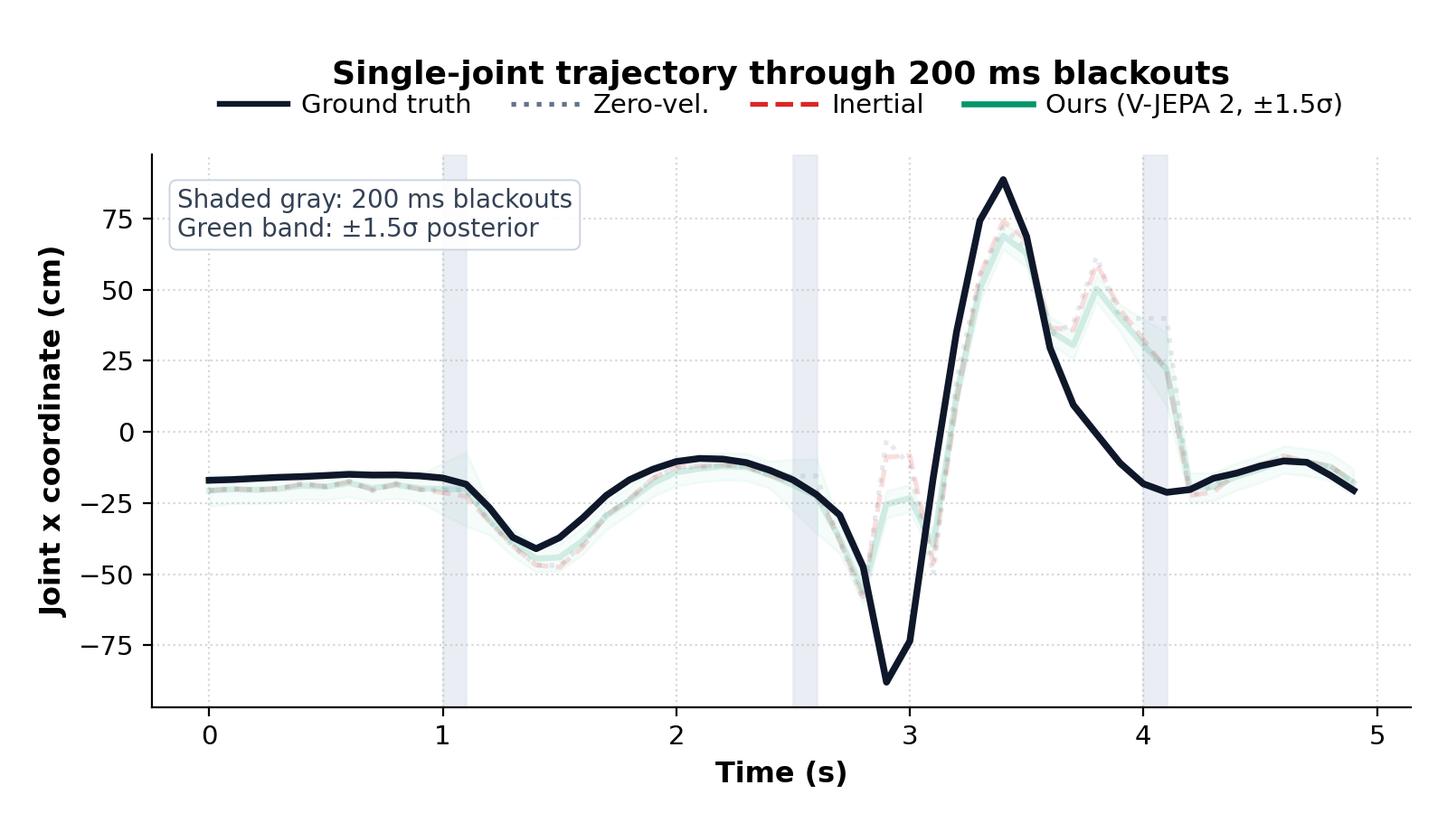
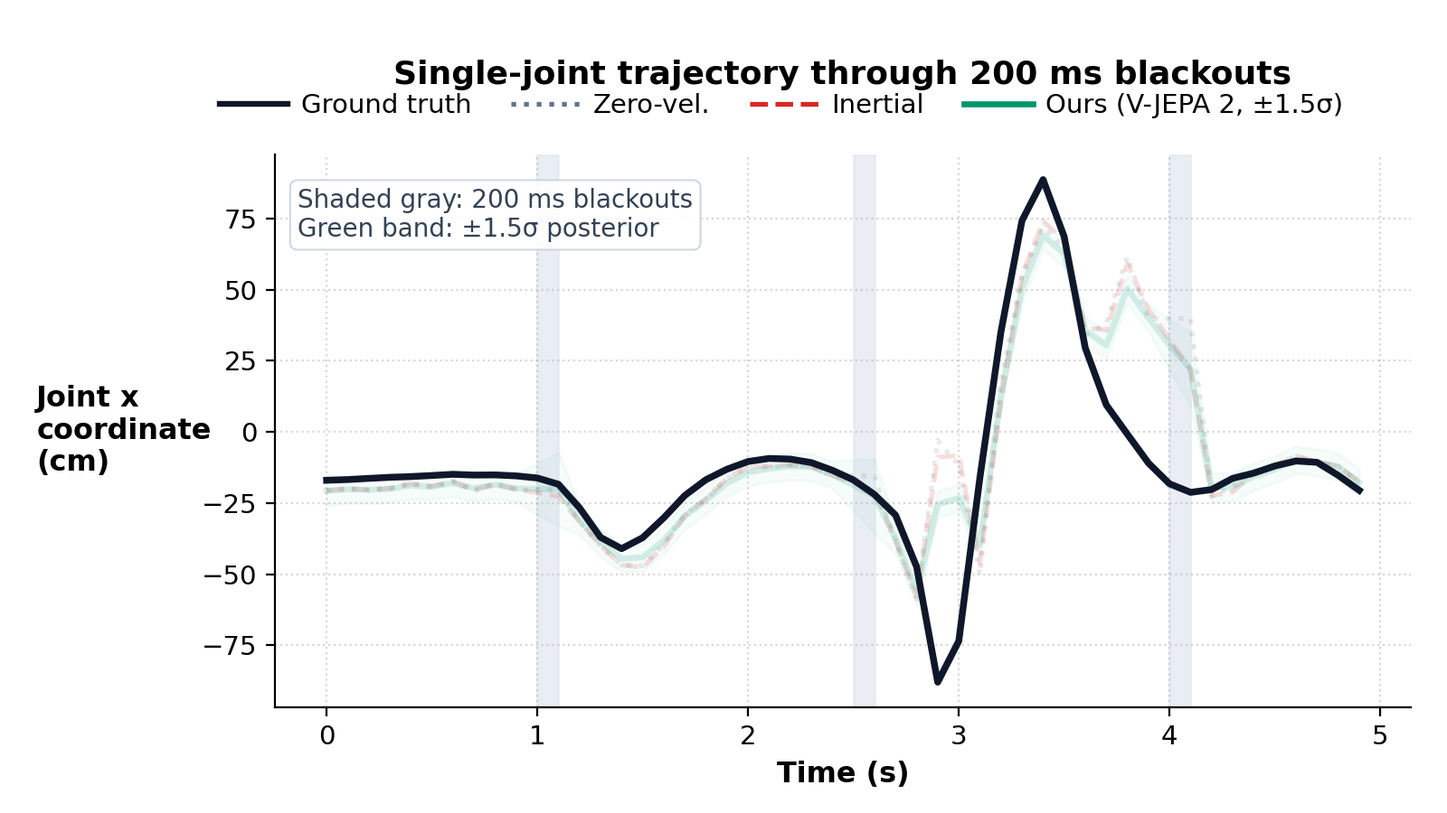
Side y-labels, spacing, alignment, larger fonts

diff --git a/index.html b/index.html
@@ -7,35 +7,35 @@
 <style>
   :root { --fg:#1d2330; --muted:#6a7385; --line:#e3e7ee; --bg:#fafbfd; --accent:#2f6fde; }
   * { box-sizing: border-box; }
-  body { margin:0; font: 15px/1.45 system-ui, -apple-system, "Segoe UI", Roboto, Helvetica, Arial, sans-serif; color:var(--fg); background:#fff; }
+  body { margin:0; font: 16px/1.45 system-ui, -apple-system, "Segoe UI", Roboto, Helvetica, Arial, sans-serif; color:var(--fg); background:#fff; }
   header { max-width:1280px; margin:0 auto; padding:40px 20px 12px; }
   header h1 { font-size:28px; font-weight:650; margin:0; line-height:1.35; text-align:center; }
-  header .anon { text-align:center; color:var(--muted); font-size:16px; margin:14px 0 18px; }
+  header .anon { text-align:center; color:var(--muted); font-size:17px; margin:14px 0 18px; }
   header .paperlink { text-align:center; margin:0 0 30px; }
-  header .paperlink a { display:inline-block; padding:11px 22px; border:1px solid var(--line); border-radius:999px; background:#fff; color:var(--accent); font-size:14px; font-weight:600; text-decoration:none; }
+  header .paperlink a { display:inline-block; padding:11px 22px; border:1px solid var(--line); border-radius:999px; background:#fff; color:var(--accent); font-size:15px; font-weight:600; text-decoration:none; }
   header .paperlink a:hover { background:#eef4ff; }
   header .intro { text-align:left; line-height:1.6; max-width:980px; margin:0 auto; }
-  .credits ul { margin:6px 0 0 18px; padding:0; font-size:14px; line-height:1.6; }
+  .credits ul { margin:6px 0 0 18px; padding:0; font-size:15px; line-height:1.6; }
   .contrib { max-width:1280px; margin:28px auto 40px; padding:0 20px; }
-  .contrib h2 { font-size:19px; font-weight:650; margin:0 0 4px; }
-  .contrib > p { color:var(--muted); font-size:14px; margin:0 0 14px; }
+  .contrib h2 { font-size:20.5px; font-weight:650; margin:0 0 4px; }
+  .contrib > p { color:var(--muted); font-size:15px; margin:0 0 14px; }
   .card { background:#fff; border:1px solid var(--line); border-radius:12px; padding:16px 18px; margin:0 0 16px; }
-  .card h3 { font-size:16px; margin:0 0 6px; }
-  .card h3 .num { display:inline-block; width:24px; height:24px; line-height:24px; text-align:center; border-radius:50%; background:var(--accent); color:#fff; font-size:13px; margin-right:8px; }
-  .card p { margin:0 0 10px; font-size:14px; line-height:1.5; }
+  .card h3 { font-size:17px; margin:0 0 6px; }
+  .card h3 .num { display:inline-block; width:24px; height:24px; line-height:24px; text-align:center; border-radius:50%; background:var(--accent); color:#fff; font-size:14px; margin-right:8px; }
+  .card p { margin:0 0 10px; font-size:15px; line-height:1.5; }
   .card figure { margin:0; text-align:center; }
   .card img { max-width:100%; height:auto; border-radius:6px; }
   .card img.narrow { max-width:620px; width:100%; }
-  .card figcaption { font-size:12.5px; color:var(--muted); margin-top:6px; text-align:left; line-height:1.45; }
-  header p { margin:4px 0 0; color:var(--muted); font-size:14px; }
+  .card figcaption { font-size:13.5px; color:var(--muted); margin-top:6px; text-align:left; line-height:1.45; }
+  header p { margin:4px 0 0; color:var(--muted); font-size:15px; }
   main { max-width:1280px; margin:0 auto; padding:6px 20px 30px; }
   .nav { display:flex; align-items:center; gap:8px; margin:26px 0 16px; }
-  .navbtn { flex:0 0 auto; width:36px; height:36px; border-radius:50%; border:1px solid var(--line); background:#fff; font-size:18px; cursor:pointer; color:var(--fg); }
+  .navbtn { flex:0 0 auto; width:36px; height:36px; border-radius:50%; border:1px solid var(--line); background:#fff; font-size:19.5px; cursor:pointer; color:var(--fg); }
   .navbtn:hover { background:var(--bg); }
   .tabs { display:flex; gap:8px; overflow-x:auto; scrollbar-width:thin; padding:2px; flex:1 1 auto; justify-content:safe center; }
-  #key3d { position:absolute; right:10px; bottom:8px; font-size:11.5px; line-height:1.45; color:#374151; background:rgba(255,255,255,.88); border:1px solid var(--line); border-radius:6px; padding:4px 8px; pointer-events:none; text-align:left; }
+  #key3d { position:absolute; right:10px; bottom:8px; font-size:12.5px; line-height:1.45; color:#374151; background:rgba(255,255,255,.88); border:1px solid var(--line); border-radius:6px; padding:4px 8px; pointer-events:none; text-align:left; }
   #key3d svg { vertical-align:middle; margin-right:4px; }
-  .tab { flex:0 0 auto; display:flex; align-items:center; gap:8px; padding:4px 10px 4px 4px; border:1px solid var(--line); border-radius:10px; background:#fff; cursor:pointer; font-size:13px; color:var(--fg); white-space:nowrap; }
+  .tab { flex:0 0 auto; display:flex; align-items:center; gap:8px; padding:4px 10px 4px 4px; border:1px solid var(--line); border-radius:10px; background:#fff; cursor:pointer; font-size:14px; color:var(--fg); white-space:nowrap; }
   .tab img { width:40px; height:40px; object-fit:cover; border-radius:7px; }
   .tab.active { border-color:var(--accent); box-shadow:0 0 0 2px rgba(47,111,222,.15); }
   .stage { display:grid; grid-template-columns:1fr 1fr; gap:10px; }
@@ -45,28 +45,28 @@
   .panel video { object-fit:contain; }
   .panel canvas { cursor:grab; touch-action:none; }
   .panel canvas:active { cursor:grabbing; }
-  .plabel { position:absolute; left:10px; top:8px; font-size:12px; color:#fff; background:rgba(0,0,0,.45); padding:2px 8px; border-radius:6px; pointer-events:none; }
+  .plabel { position:absolute; left:10px; top:8px; font-size:13px; color:#fff; background:rgba(0,0,0,.45); padding:2px 8px; border-radius:6px; pointer-events:none; }
   .viewer .plabel { color:var(--muted); background:rgba(255,255,255,.8); }
-  #resetView { position:absolute; right:10px; top:8px; display:none; font-size:12px; padding:4px 10px; border-radius:6px; border:1px solid var(--line); background:#fff; cursor:pointer; }
-  #status3d { position:absolute; left:10px; bottom:8px; font-size:12px; color:var(--muted); pointer-events:none; }
+  #resetView { position:absolute; right:10px; top:8px; display:none; font-size:13px; padding:4px 10px; border-radius:6px; border:1px solid var(--line); background:#fff; cursor:pointer; }
+  #status3d { position:absolute; left:10px; bottom:8px; font-size:13px; color:var(--muted); pointer-events:none; }
   #status3d.black { color:#c4441a; font-weight:600; }
-  .controls { display:flex; flex-wrap:wrap; align-items:center; justify-content:center; gap:6px 22px; margin:12px 2px 6px; font-size:13px; color:var(--fg); }
+  .controls { display:flex; flex-wrap:wrap; align-items:center; justify-content:center; gap:6px 22px; margin:12px 2px 6px; font-size:14px; color:var(--fg); }
   .playov { position:absolute; left:50%; top:50%; transform:translate(-50%,-50%); width:68px; height:68px; border:none; border-radius:50%; background:rgba(0,0,0,.55); cursor:pointer; display:flex; align-items:center; justify-content:center; opacity:0; transition:opacity .25s; padding:0; }
   .panel:hover .playov { opacity:1; }
   .playov.show { opacity:1; transition:none; }
   .playov:hover { background:rgba(0,0,0,.72); }
   #rgb { cursor:pointer; }
   .controls label { display:flex; align-items:center; gap:6px; cursor:pointer; user-select:none; }
-  .controls select, .controls button { font-size:13px; padding:3px 8px; border:1px solid var(--line); border-radius:6px; background:#fff; cursor:pointer; }
+  .controls select, .controls button { font-size:14px; padding:3px 8px; border:1px solid var(--line); border-radius:6px; background:#fff; cursor:pointer; }
   .spacer { flex:1 1 auto; }
   .linkish { background:none !important; border:none !important; color:var(--accent); padding:0 !important; }
   #panelsWrap { display:none; margin-top:8px; }
   #panelsWrap video { width:100%; display:block; border:1px solid var(--line); border-radius:10px; background:#fff; }
-  .caption { margin-top:10px; padding:10px 14px; background:var(--bg); border:1px solid var(--line); border-radius:10px; font-size:14px; }
+  .caption { margin-top:10px; padding:10px 14px; background:var(--bg); border:1px solid var(--line); border-radius:10px; font-size:15px; }
   .caption .title { font-weight:600; }
   .caption .metrics { margin-top:4px; color:var(--fg); }
-  .caption .model { color:var(--muted); font-size:13px; }
-  details { margin:10px auto 0; font-size:13px; color:var(--fg); }
+  .caption .model { color:var(--muted); font-size:14px; }
+  details { margin:10px auto 0; font-size:14px; color:var(--fg); }
   #caption { margin-left:auto; margin-right:auto; }
   details summary { cursor:pointer; color:var(--muted); }
   details ul { margin:6px 0 0 18px; padding:0; }
@@ -124,7 +124,7 @@
     <p>Image self-distillation (DINOv3) and flow-adapted LILA give the best in-domain static pose (Human3.6M MPJPE 5.12 and 5.07&nbsp;cm vs. 5.50&ndash;5.56&nbsp;cm for V-JEPA&nbsp;2 and RVM; <a href="paper.pdf#page=5" target="_blank" rel="noopener">paper Tab.&nbsp;1</a>). Predictive and recurrent video self-supervised encoders carry the most transferable dynamics: they lead zero-shot EMDB1 pose (RVM 7.85, V-JEPA&nbsp;2 7.99&nbsp;cm) and 3DPW forecasting and in-betweening (<a href="paper.pdf#page=5" target="_blank" rel="noopener">Tab.&nbsp;1</a>), +100&nbsp;ms velocity (24.5 and 26.6&nbsp;cm/s; <a href="paper.pdf#page=6" target="_blank" rel="noopener">Tab.&nbsp;2</a>), and quadruped forecasting (<a href="paper.pdf#page=7" target="_blank" rel="noopener">Tab.&nbsp;7</a>). Vision&ndash;language and action-supervised encoders retain little motion: their speed slope is at most 0.26 vs. 0.70 for RVM (figure below; <a href="paper.pdf#page=1" target="_blank" rel="noopener">paper Fig.&nbsp;2</a>).</p>
     <figure>
       <div class="ix-legend" id="ix1leg"></div>
-      <div class="ix-two ix-f1"><div><svg id="ix1a" viewBox="0 0 520 400" role="img" aria-label="Predicted versus true speed per encoder"></svg></div><div><svg id="ix1b" viewBox="0 0 440 400" role="img" aria-label="Speed slope per encoder"></svg></div></div>
+      <div class="ix-two ix-f1"><div><svg id="ix1a" viewBox="0 0 560 400" role="img" aria-label="Predicted versus true speed per encoder"></svg></div><div><svg id="ix1b" viewBox="0 0 440 400" role="img" aria-label="Speed slope per encoder"></svg></div></div>
       <noscript><img class="narrow" src="figs/fig_speed.png" alt="Predicted versus true joint speed across frozen encoders"></noscript>
       <figcaption><b>Paper Fig. 2.</b> How much motion do frozen encoders expose? (a) Mean predicted vs. true speed over 23 joints on 1,598 zero-shot EMDB1 clips (TSA head, 0.4 s context at 10 FPS, predicting 100 ms ahead). (b) Underestimation factor (least-squares slope; 1.0 = no shortfall) for four example joints (dots) and all 23 joints (bars).</figcaption></figure>
   </div>
@@ -133,7 +133,7 @@
     <p>Linear probes fail: the best linear or spatial-linear probe trails the attention heads by 5.3&ndash;8.1&nbsp;cm on position and barely improves on predicting zero velocity (<a href="paper.pdf#page=6" target="_blank" rel="noopener">paper Tab.&nbsp;2</a>, plotted below). Per-joint cross-attention (Perceiver-style) accounts for most of the gain, lowering mean position error from 16.6 to 10.2&nbsp;cm. Our Temporal Signed Attention (TSA) head differences features across frames instead of averaging them (<a href="paper.pdf#page=4" target="_blank" rel="noopener">paper Fig.&nbsp;4</a>) and gives the lowest mean position and velocity error (10.0&nbsp;cm, 30.1&nbsp;cm/s; <a href="paper.pdf#page=6" target="_blank" rel="noopener">Tab.&nbsp;2</a>); with static crops it has the lowest position error on every encoder (<a href="paper.pdf#page=15" target="_blank" rel="noopener">supp. Tab.&nbsp;S4</a>).</p>
     <figure>
       <div class="ix-legend" id="ix2leg"></div>
-      <div class="ix-two ix-f2"><div><svg id="ix2a" viewBox="0 0 560 330" role="img" aria-label="MPJPE by readout head"></svg></div><div><svg id="ix2b" viewBox="0 0 560 330" role="img" aria-label="Velocity error by readout head"></svg></div></div>
+      <div class="ix-two ix-f2"><div><svg id="ix2a" viewBox="0 0 596 330" role="img" aria-label="MPJPE by readout head"></svg></div><div><svg id="ix2b" viewBox="0 0 596 330" role="img" aria-label="Velocity error by readout head"></svg></div></div>
       <noscript><img src="figs/fig_heads.png" alt="Readout heads on zero-shot EMDB1"></noscript>
       <figcaption><b>Paper Tab. 2, plotted.</b> Readout heads on zero-shot EMDB1 for seven frozen encoders: best linear or spatial-linear probe, Perceiver-style cross-attention, and TSA. Left: MPJPE (cm, lower is better). Right: +100 ms velocity error (cm/s); dashed line: zero-velocity baseline. Mean over encoders: 16.6 / 10.2 / 10.0 cm and 39.6 / 30.5 / 30.1 cm/s.</figcaption></figure>
   </div>
@@ -150,7 +150,7 @@
         <span class="ix-li" data-key3="inertial" style="cursor:pointer"><svg viewBox="0 0 30 10"><line x1="1" x2="29" y1="5" y2="5" stroke="#DC2626" stroke-width="2.4" stroke-dasharray="6 3"/></svg>Inertial</span>
         <span class="ix-li" data-key3="ours" style="cursor:pointer"><svg viewBox="0 0 30 10"><line x1="1" x2="29" y1="5" y2="5" stroke="#1B9E77" stroke-width="2.6"/></svg>Ours (V-JEPA 2, discs/band = posterior &sigma;)</span>
       </div>
-      <div class="ix-two ix-f3"><div><svg id="ix3b" viewBox="0 0 560 360" role="img" aria-label="Mean error across blackouts"></svg></div><div class="ix-c"><img src="figs/fig5c_web.png" alt="Single-joint trajectory through blackouts"></div></div>
+      <div class="ix-two ix-f3"><div><svg id="ix3b" viewBox="0 0 634 360" role="img" aria-label="Mean error across blackouts"></svg></div><div class="ix-c"><img src="figs/fig5c_web.png?v=20261124f" alt="Single-joint trajectory through blackouts"></div></div>
       <noscript><img src="figs/fig_kalman.png" alt="Tracking through blackouts with five targets"></noscript>
       <figcaption><b>Paper Fig. 5.</b> Tracking through blackouts with five targets (TSA heads, zero-shot EMDB1). (a) 3D skeletons (V-JEPA 2) across a 300 ms blackout on the EMDB1 cartwheel; discs: posterior std; badges: per-frame MPJPE (cm) for the zero-velocity and inertial baselines and ours. (b) Mean error over 424 blackouts across encoders vs. both baselines. (c) Right-foot trajectory through 200 ms blackouts with &plusmn;1.5&sigma; band.</figcaption></figure>
   </div>
@@ -190,12 +190,15 @@
     tabs.appendChild(b);
   });
 
-  // Match caption + legend width to the span of the clip tabs.
+  // Match caption + legend width to the controls row.
   const legendEl = document.querySelector('main > details');
   function fitTextWidth() {
-    const k = tabs.children; if (!k.length) return;
-    const w = Math.round(k[k.length - 1].getBoundingClientRect().right - k[0].getBoundingClientRect().left);
-    const mw = (tabs.scrollWidth > tabs.clientWidth + 1 || w < 320) ? '' : w + 'px';
+    // Match the width of the checkbox / speed controls row (unless it wraps).
+    const k = [...document.querySelector('.controls').children]; if (!k.length) return;
+    const r = k.map(function (n) { return n.getBoundingClientRect(); });
+    const wrapped = r.some(function (b) { return Math.abs(b.top - r[0].top) > 4; });
+    const w = Math.round(Math.max.apply(null, r.map(function (b) { return b.right; })) - Math.min.apply(null, r.map(function (b) { return b.left; })));
+    const mw = (wrapped || w < 320) ? '' : w + 'px';
     document.getElementById('caption').style.maxWidth = mw;
     legendEl.style.maxWidth = mw;
   }
@@ -512,7 +515,10 @@
   .ix-two svg { width:100%; height:auto; display:block; overflow:visible; font-family: system-ui, -apple-system, "Segoe UI", Roboto, Helvetica, Arial, sans-serif; }
   .ix-two svg text { fill:#1f2937; }
   .ix-c img { width:100%; }
-  .ix-legend { display:flex; flex-wrap:wrap; justify-content:center; gap:4px 6px; margin:4px 0 6px; font-size:13px; }
+  .ix-card > p { margin-bottom:0; }
+  .ix-card > figure { margin-top:22px; }
+  #ix3leg { margin-top:18px; }
+  .ix-legend { display:flex; flex-wrap:wrap; justify-content:center; gap:4px 6px; margin:4px 0 6px; font-size:14px; }
   .ix-legend .ix-li { display:inline-flex; align-items:center; gap:6px; padding:2px 8px; border:1px solid var(--line); border-radius:999px; cursor:default; background:#fff; transition:opacity .15s; user-select:none; }
   .ix-legend .ix-li svg { width:30px; height:10px; }
   .ix-legend .ix-li.dim { opacity:.25; }
@@ -521,7 +527,7 @@
   .ix-card [data-k] { transition: opacity .15s; }
   .ix-card [data-k].dim { opacity:.1; }
   .ix-card .ix-hl { stroke-width:3.4; }
-  .ix-tip { position:fixed; z-index:50; pointer-events:none; background:rgba(17,24,39,.94); color:#fff; font-size:12.5px; line-height:1.45; padding:6px 9px; border-radius:7px; box-shadow:0 4px 14px rgba(0,0,0,.18); display:none; max-width:340px; }
+  .ix-tip { position:fixed; z-index:50; pointer-events:none; background:rgba(17,24,39,.94); color:#fff; font-size:13.5px; line-height:1.45; padding:6px 9px; border-radius:7px; box-shadow:0 4px 14px rgba(0,0,0,.18); display:none; max-width:340px; }
   .ix-tip b { font-weight:650; }
   .ix-tip .ix-sw { display:inline-block; width:9px; height:9px; border-radius:2px; margin-right:5px; vertical-align:baseline; }
   .ix-skel { display:flex; justify-content:center; gap:10px; flex-wrap:wrap; }
@@ -536,7 +542,8 @@
   'use strict';
   var NS = 'http://www.w3.org/2000/svg';
   function el(tag, a, p) { var e = document.createElementNS(NS, tag); for (var k in a) e.setAttribute(k, a[k]); if (p) p.appendChild(e); return e; }
-  function txt(s, a, p) { var e = el('text', a, p); e.textContent = s; return e; }
+  function txt(s, a, p) { if (a && a['font-size']) a['font-size'] = +(a['font-size'] * 1.06).toFixed(2); var e = el('text', a, p); e.textContent = s; return e; }
+  function sideLab(lines, x, yc, anchor, g, style) { var lh = 15, y0 = yc - (lines.length - 1) * lh / 2 + 4; lines.forEach(function (s, i) { var a = { x: x, y: y0 + i * lh, 'text-anchor': anchor, 'font-size': 12.5, 'font-weight': 700 }; if (style) a.style = style; txt(s, a, g); }); }
   function f(v, d) { return v.toFixed(d == null ? 2 : d); }
   var tip = document.getElementById('ixtip');
   function showTip(html, x, y) {
@@ -614,7 +621,7 @@
     var hl = makeHL(card, leg);
     // (a)
     var s = document.getElementById('ix1a');
-    var M = { l: 62, r: 16, t: 50, b: 52 }, W = 520, H = 400;
+    var M = { l: 100, r: 16, t: 34, b: 52 }, W = 560, H = 400;
     var mx = F1.xend * 1.04;
     var X = function (v) { return M.l + v / mx * (W - M.l - M.r); }, Y = function (v) { return H - M.b - v / mx * (H - M.t - M.b); };
     txt('(a) Velocity underestimation', { x: M.l, y: 18, 'font-size': 14, 'font-weight': 700 }, s);
@@ -627,7 +634,7 @@
     });
     el('path', { d: 'M' + X(0) + ' ' + Y(mx) + 'V' + Y(0) + 'H' + X(mx), fill: 'none', stroke: '#475569' }, g);
     txt('True speed (cm/s)', { x: (X(0) + X(mx)) / 2, y: H - 12, 'text-anchor': 'middle', 'font-size': 13, 'font-weight': 700 }, g);
-    txt('Predicted speed (cm/s)', { x: 10, y: M.t - 10, 'text-anchor': 'start', 'font-size': 12.5, 'font-weight': 700 }, g);
+    sideLab(['Predicted', 'speed', '(cm/s)'], 8, (M.t + H - M.b) / 2, 'start', g);
     el('line', { x1: X(0), y1: Y(0), x2: X(F1.xend), y2: Y(F1.xend), stroke: '#94A3B8', 'stroke-width': 1.4, 'stroke-dasharray': '5 4' }, g);
     var ang = Math.atan2(Y(100) - Y(0), X(100) - X(0)) * 180 / Math.PI;
     txt('1:1 ideal', { x: 0, y: 0, transform: 'translate(' + X(0.47 * F1.xend) + ' ' + (Y(0.47 * F1.xend) - 6) + ') rotate(' + ang + ')', 'text-anchor': 'middle', 'font-size': 12, style: 'fill:#64748B' }, g);
@@ -666,7 +673,7 @@
     var sb = document.getElementById('ix1b');
     var Mb = { l: 92, r: 18, t: 50, b: 52 }, Wb = 440, Hb = 400, xmax = 0.86;
     var XB = function (v) { return Mb.l + v / xmax * (Wb - Mb.l - Mb.r); };
-    txt('(b) Slope by joint', { x: Mb.l, y: 18, 'font-size': 14, 'font-weight': 700 }, sb);
+    txt('(b) Slope by joint', { x: Mb.l - 70, y: 18, 'font-size': 14, 'font-weight': 700 }, sb);
     var order = ENC.slice().sort(function (a, b) { return F1[b.k].s - F1[a.k].s; });
     var rowH = (Hb - Mb.t - Mb.b) / order.length;
     var gb = el('g', {}, sb);
@@ -696,10 +703,15 @@
     lx.forEach(function (it) {
       if (it[1]) el('circle', { cx: cx + 5, cy: -4, r: 4.5, fill: it[1], stroke: '#0F172A', 'stroke-width': 0.9 }, dlg);
       else el('rect', { x: cx, y: -9, width: 12, height: 10, fill: '#94A3B8', 'fill-opacity': 0.35, stroke: '#475569' }, dlg);
-      txt(it[0], { x: cx + 15, y: 0, 'font-size': 11 }, dlg);
-      cx += 15 + it[0].length * 5.6 + 10;
+      var tt = txt(it[0], { x: cx + 15, y: 0, 'font-size': 11 }, dlg);
+      var tw = 0; try { tw = tt.getComputedTextLength(); } catch (err) {}
+      cx += 15 + (tw > 0 ? tw : it[0].length * 5.6) + 12;
     });
-    dlg.setAttribute('transform', 'translate(' + (Mb.l - 70 + (Wb - Mb.l + 70 - Mb.r - cx) / 2) + ' 38)');
+    // Center the legend over the whole subfigure: leftmost encoder label to the x-axis end.
+    var labL = Mb.l - 70;
+    try { labL = Math.min.apply(null, [].map.call(gb.querySelectorAll('text[text-anchor="end"]'), function (t) { return t.getBBox().x; })); } catch (err) {}
+    var legW = cx - 12;
+    dlg.setAttribute('transform', 'translate(' + ((labL + XB(xmax)) / 2 - legW / 2) + ' 38)');
 
     // HTML legend (encoders) — hoverable
     ENC.forEach(function (e) {
@@ -725,14 +737,14 @@
         '<br><span style="opacity:.75">Zero-velocity baseline: 40.8 cm/s</span>';
     }
     function chart(svg, data, ymax, ticks, title, ylab, zero) {
-      var M = { l: 58, r: 14, t: 50, b: 56 }, W = 560, H = 330;
+      var M = { l: 94, r: 14, t: 34, b: 56 }, W = 596, H = 330;
       var gw = (W - M.l - M.r) / 7, bw = gw * 0.25;
       var Y = function (v) { return H - M.b - v / ymax * (H - M.t - M.b); };
       txt(title, { x: M.l, y: 18, 'font-size': 14, 'font-weight': 700 }, svg);
       var g = el('g', {}, svg);
       axisY(g, Y, ticks, M.l, W - M.r);
       el('path', { d: 'M' + M.l + ' ' + M.t + 'V' + Y(0) + 'H' + (W - M.r), fill: 'none', stroke: '#475569' }, g);
-      txt(ylab, { x: 10, y: M.t - 10, 'text-anchor': 'start', 'font-size': 12.5, 'font-weight': 700 }, g);
+      sideLab(ylab.replace(' \u2193', '\u00a0\u2193').split(' '), 8, (M.t + H - M.b) / 2, 'start', g);
       ENC.forEach(function (e, i) {
         var gx = M.l + gw * i, gg = el('g', { 'data-k': e.k, style: 'cursor:pointer' }, g);
         el('rect', { x: gx, y: M.t - 4, width: gw, height: H - M.t + 4, fill: 'transparent' }, gg);
@@ -742,7 +754,7 @@
           var ht = txt(f(v, 1), { x: x + bw / 2, y: Y(v) - 4, 'text-anchor': 'middle', 'font-size': 9.5, 'font-weight': 600, class: 'ix-hv', 'data-h': j }, g);
           ht.style.display = 'none';
         });
-        txt(e.n, { x: gx + gw / 2, y: Y(0) + 17, 'text-anchor': 'middle', 'font-size': 10.5, 'font-weight': 700, style: 'fill:' + e.c }, gg);
+        txt(e.n, { x: gx + gw / 2, y: Y(0) + 17, 'text-anchor': 'middle', 'font-size': 9.9, 'font-weight': 700, style: 'fill:' + e.c }, gg);
         // values appear on hover
         var vg = el('g', { class: 'ix-vals', style: 'display:none' }, gg);
         data[i].forEach(function (v, j) {
@@ -763,8 +775,8 @@
       card.querySelectorAll('.ix-vals').forEach(function (n) { n.style.display = 'none'; });
       if (i != null) card.querySelectorAll('[data-k="' + ENC[i].k + '"] .ix-vals').forEach(function (n) { n.style.display = ''; });
     }
-    chart(document.getElementById('ix2a'), POS, 25, [0, 5, 10, 15, 20, 25], 'MPJPE (cm) \u2193', 'MPJPE (cm)', null);
-    chart(document.getElementById('ix2b'), VEL, 45, [0, 10, 20, 30, 40], '+100 ms velocity error (cm/s) \u2193', 'Velocity error (cm/s)', 40.8);
+    chart(document.getElementById('ix2a'), POS, 25, [0, 5, 10, 15, 20, 25], '(a) Pose accuracy', 'MPJPE (cm) \u2193', null);
+    chart(document.getElementById('ix2b'), VEL, 45, [0, 10, 20, 30, 40], '(b) +100 ms future velocity', 'Velocity error (cm/s) \u2193', 40.8);
     function headTip(j) {
       var mp = POS.reduce(function (a, r) { return a + r[j]; }, 0) / POS.length, mv = VEL.reduce(function (a, r) { return a + r[j]; }, 0) / VEL.length;
       return '<b>' + HEADS[j] + '</b> (mean over encoders: ' + f(mp, 1) + ' cm, ' + f(mv, 1) + ' cm/s)<br>' +
@@ -805,7 +817,7 @@
     var SIG = { n: 'Posterior \u03c3 (V-JEPA 2, right axis)', c: '#0F766E', v: [4.167, 6.998, 9.599, 14.563, 4.798] };
     var TL = ['t0 (visible)', '+100 ms (occluded)', '+200 ms (occluded)', '+300 ms (occluded)', '+400 ms (visible)'];
     var svg = document.getElementById('ix3b');
-    var M = { l: 58, r: 70, t: 50, b: 60 }, W = 560, H = 360;
+    var M = { l: 94, r: 108, t: 34, b: 60 }, W = 634, H = 360;
     var X = function (i) { return M.l + (i + 0.15) / 4.3 * (W - M.l - M.r); };
     var Y = function (v) { return H - M.b - (v - 7) / 13.5 * (H - M.t - M.b); };
     var Y2 = function (v) { return H - M.b - (v - 3.2) / 12.3 * (H - M.t - M.b); };
@@ -820,8 +832,8 @@
     el('line', { x1: W - M.r, x2: W - M.r, y1: M.t, y2: H - M.b, stroke: '#0F766E', 'stroke-width': 1.4 }, g);
     ['0 (vis.)', '0.1', '0.2', '0.3', '0.4 (vis.)'].forEach(function (s, i) { txt(s, { x: X(i), y: H - M.b + 18, 'text-anchor': 'middle', 'font-size': 12 }, g); });
     txt('Time (s)', { x: (M.l + W - M.r) / 2, y: H - 16, 'text-anchor': 'middle', 'font-size': 13, 'font-weight': 700 }, g);
-    txt('MPJPE (cm) \u2193', { x: 10, y: M.t - 10, 'text-anchor': 'start', 'font-size': 12.5, 'font-weight': 700 }, g);
-    txt('Posterior \u03c3 (cm)', { x: W - 10, y: M.t - 10, 'text-anchor': 'end', 'font-size': 12.5, 'font-weight': 700, style: 'fill:#0F766E' }, g);
+    sideLab(['MPJPE', '(cm) \u2193'], 8, (M.t + H - M.b) / 2, 'start', g);
+    sideLab(['Posterior', '\u03c3 (cm)'], W - 8, (M.t + H - M.b) / 2, 'end', g, 'fill:#0F766E');
     var guide = el('line', { x1: 0, x2: 0, y1: M.t, y2: H - M.b, stroke: '#0f172a', 'stroke-width': 1.2, 'stroke-dasharray': '3 3', style: 'display:none' }, g);
     var marks = [];
     function series(s, ysc, sq) {
@@ -888,14 +900,14 @@
     var ok = {};
     ['gt', 'zero', 'inertial', 'ours'].forEach(function (k) {   // preload; enable a key only if all its variants exist
       var srcs = [].map.call(aImgs, function (im, i) { return 'figs/fig5a_' + i + '_' + k + '.png'; });
-      if (cImg) srcs.push('figs/fig5c_web_' + k + '.png');
+      if (cImg) srcs.push('figs/fig5c_web_' + k + '.png?v=20261124f');
       var left = srcs.length;
       srcs.forEach(function (u) { var im = new Image(); im.onload = function () { if (--left === 0) ok[k] = true; }; im.src = u; });
     });
     function set(k) {
       var use = k && ok[k];
       [].forEach.call(aImgs, function (im, i) { im.setAttribute('src', use ? 'figs/fig5a_' + i + '_' + k + '.png' : base.a[i]); });
-      if (cImg) cImg.setAttribute('src', use ? 'figs/fig5c_web_' + k + '.png' : base.c);
+      if (cImg) cImg.setAttribute('src', use ? 'figs/fig5c_web_' + k + '.png?v=20261124f' : base.c);
       [].forEach.call(leg.children, function (n) { n.classList.toggle('dim', !!k && n.getAttribute('data-key3') !== k); n.classList.toggle('on', !!k && n.getAttribute('data-key3') === k); });
     }
     [].forEach.call(leg.children, function (n) {
